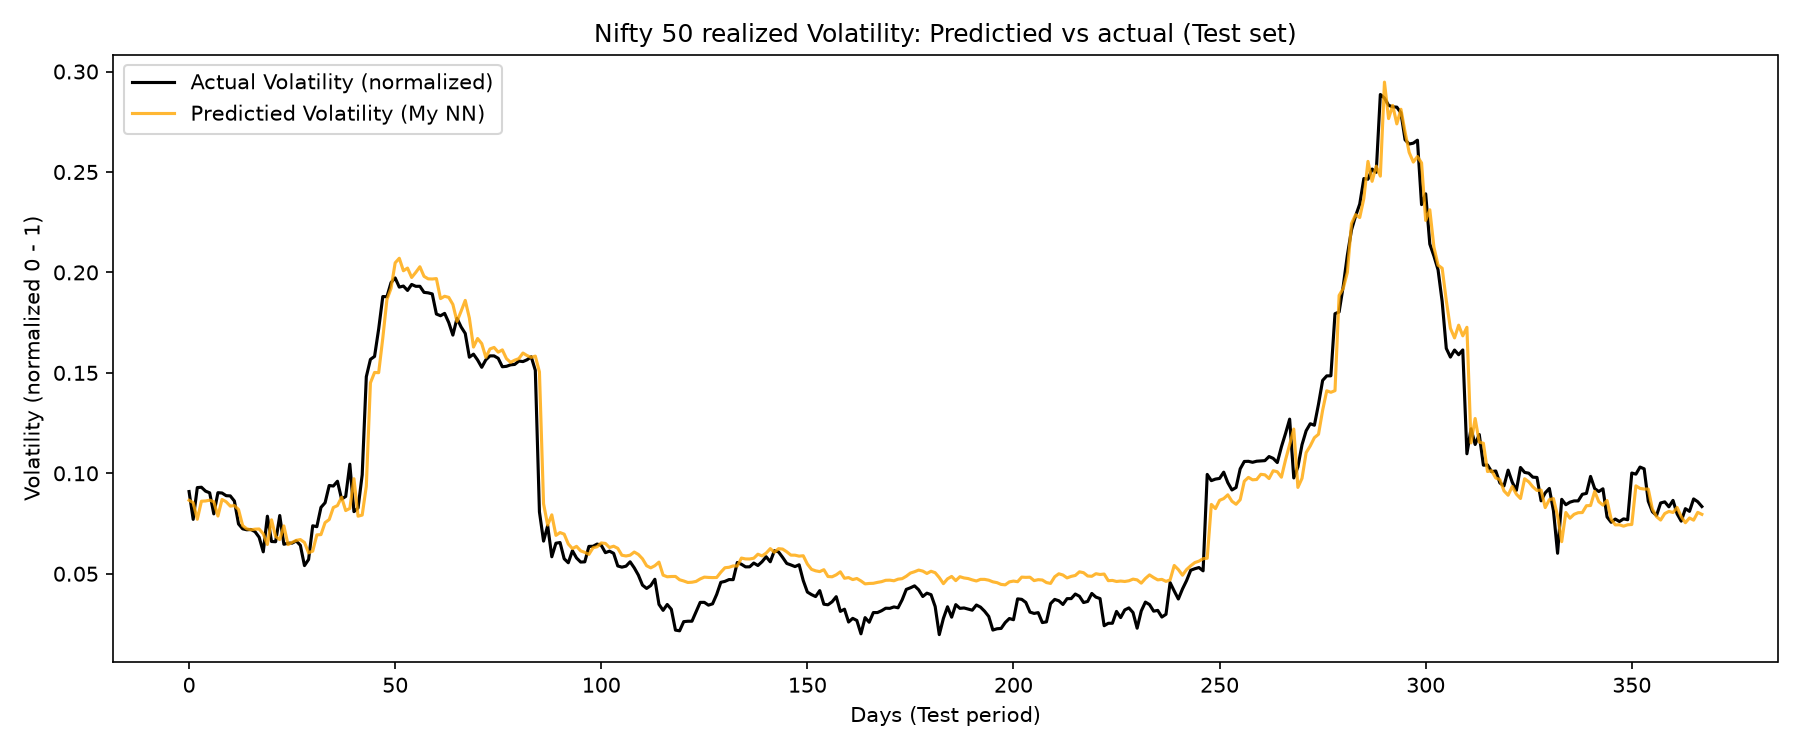
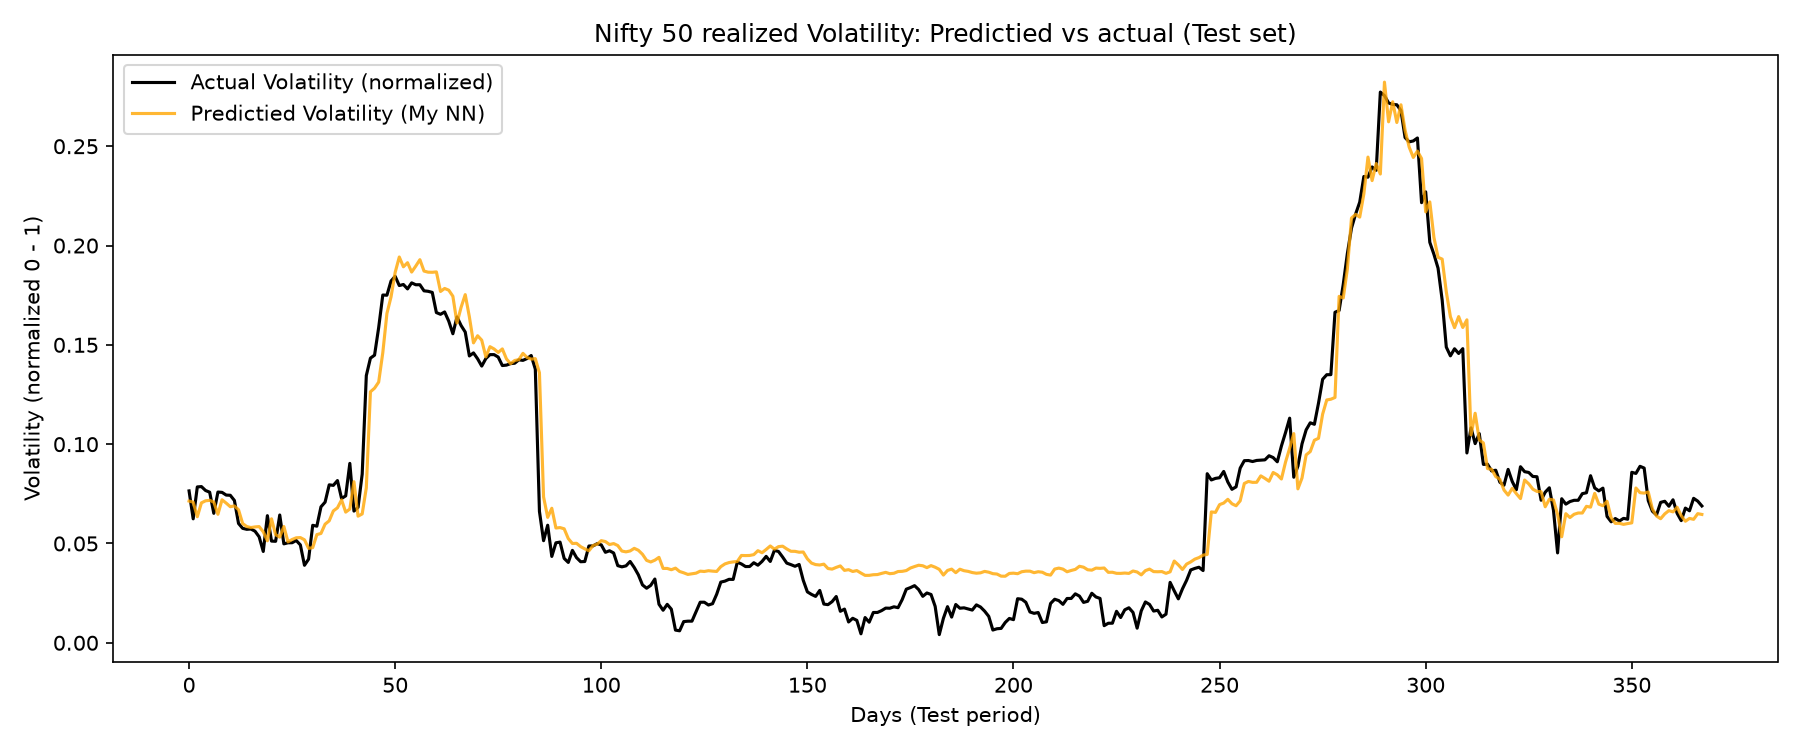
fix naive baseline scale, add val split for early stopping, fix typo

diff --git a/src/train_volatility.py b/src/train_volatility.py
@@ -1,9 +1,10 @@
 import numpy as np
 import pandas as pd
 from network import NeuralNetwork
-from activations import relu, sigmoid, leaky_relu
-from losses import mse, mse_derivative 
-from sklearn.neural_network import MLPRegressor
+from activations import sigmoid, leaky_relu
+from losses import mse
+import matplotlib
+matplotlib.use('Agg')
 import matplotlib.pyplot as plt
 
 
@@ -19,34 +20,33 @@ target = 'Volatility'
 X = data[features].values  # shape(n_samples, 4)
 y = data[target].values    # shape(n_samples, )
 
-# --- Chronological train/test split (80/20, NO shuffling) ---
+# --- Chronological train/val/test split (70/10/20, NO shuffling) ---
 
-split_idx = int(len(X) * 0.8)   # split index for 80% train and 20% test
+n = len(X)
+train_end = int(n * 0.7)
+val_end = int(n * 0.8)
 
-X_train, X_test = X[:split_idx], X[split_idx:]
-y_train, y_test = y[:split_idx], y[split_idx:]
+X_train, X_val, X_test = X[:train_end], X[train_end:val_end], X[val_end:]
+y_train, y_val, y_test = y[:train_end], y[train_end:val_end], y[val_end:]
 
-print(f"Train Samples: {len(X_train)}, Test Samples: {len(X_test)}")
+print(f"Train: {len(X_train)}, Val: {len(X_val)}, Test: {len(X_test)}")
 
 # --- Normalize using TRAIN stats only (never leak test stats into training) ---
 
 X_mean, X_std =  X_train.mean(axis=0), X_train.std(axis=0)
 
 X_train_norm = (X_train - X_mean) / X_std
+X_val_norm = (X_val - X_mean) / X_std
 X_test_norm = (X_test - X_mean) / X_std
 
 y_min, y_max = y_train.min(), y_train.max()
 y_train_norm = (y_train - y_min) / (y_max - y_min)
+y_val_norm = (y_val - y_min) / (y_max - y_min)
 y_test_norm = (y_test - y_min) / (y_max - y_min)
 
 
 print(f"X_train_norm mean/std:{X_train_norm.mean():.4f}, {X_train_norm.std():.4f} ")
 print(f"y_train_norm mean/std:{y_train_norm.mean():.4f}, {y_train_norm.std():.4f} ")
-
-
-print(data.head())
-print(data.dtypes)
-print(f"\nNaN count per column:\n{data.isna().sum()}")
 
 
 
@@ -60,15 +60,14 @@ net = NeuralNetwork(layer_sizes = [4, 8, 1], activations =[leaky_relu, sigmoid])
 
 epochs = 200    # the number of times the entire training dataset is passed through the network
 learning_rate = 0.01
-batch_size = 32
 l2_lambda = 0.0      # L2 regularization strength — small penalty on large weights
 
 n_samples = len(X_train_norm)
 
 
-# --- Train with early stopping (keep best weights) ---
+# --- Train with early stopping on VALIDATION loss (keep best weights) ---
 
-best_loss = float('inf')
+best_val_loss = float('inf')
 best_weights = None
 patience = 30
 epochs_without_improvement = 0
@@ -89,17 +88,24 @@ for epoch in range(epochs):
 
     avg_loss = total_loss / n_samples
 
-    if avg_loss < best_loss :
-        best_loss = avg_loss
+    # compute validation loss for early stopping
+    val_loss = 0.0
+    for i in range(len(X_val_norm)):
+        y_pred = net.forward(X_val_norm[i])
+        val_loss += mse(y_pred, np.array([y_val_norm[i]]))
+    val_loss /= len(X_val_norm)
+
+    if val_loss < best_val_loss:
+        best_val_loss = val_loss
         best_weights = [(layer.W.copy(), layer.b.copy()) for layer in net.layers]
-        epochs_witout_improvement = 0
+        epochs_without_improvement = 0
     else:
-        epochs_witout_improvement += 1
+        epochs_without_improvement += 1
 
     if epoch % 20 == 0:
-        print(f"Epoch : {epoch}, Train Loss: {avg_loss:.6f} (best: {best_loss:.6f})")
+        print(f"Epoch : {epoch}, Train Loss: {avg_loss:.6f}, Val Loss: {val_loss:.6f} (best: {best_val_loss:.6f})")
 
-    if epochs_witout_improvement >= patience:
+    if epochs_without_improvement >= patience:
         print(f"\n early stopping at epoch {epoch} - no improvement for {patience} epochs")
         break
 
@@ -110,7 +116,7 @@ for layer, (W,b) in zip(net.layers, best_weights):
     layer.b = b
 
 
-#               --- Evaluate on test set ---
+#               --- Evaluate on test set (once, at the end) ---
 test_loss = 0.0
 predictions = []
 
@@ -125,33 +131,20 @@ for i in range(len(X_test_norm)):
 test_loss /= len(X_test_norm)
 print(f"\nFinal Test Loss (normalized scale): {test_loss:.6f}")
 
-# --- Baseline comparison: naive "tomorrow = today" predictor ---
-naive_prediction = X_test_norm[:, 2]                   # Volatility_lag1 IS our naive guess for today's volatility
+# --- Baseline comparison: naive persistence predictor ---
+# predict today's volatility = yesterday's volatility, in the SAME MinMax scale as y
+naive_prediction = (X_test[:, 2] - y_min) / (y_max - y_min)
 naive_loss = np.mean((naive_prediction - y_test_norm)**2)
-print(f"Naive Baseline Loss (predict using yesterday's volatility): {naive_loss:.6f}")
+print(f"Naive Baseline Loss (persistence, same scale): {naive_loss:.6f}")
 
 
-
-# --- Sanity check against sklearn's MLPRegressor ---
-
-
-sklearn_model = MLPRegressor(
-    hidden_layer_sizes = (8,),
-    activation = 'relu',
-    max_iter = 1000,
-    random_state = 42  
-)
-
-sklearn_model.fit(X_train_norm, y_train_norm)
-sklearn_preds = sklearn_model.predict(X_test_norm)
-sklearn_test_loss = np.mean((sklearn_preds - y_test_norm) ** 2)
-
-
-
-print(f"\n---- Comparision ----")
-print(f"Your from - scratch NN Test Loss :   {test_loss:.6f}")
-print(f"sklearn MLPRegressor Test Loss :     {sklearn_test_loss:.6f}")
-print(f"Naive Baseline Test Loss :           {naive_loss:.6f}")
+print(f"\n---- Comparison ----")
+print(f"From-scratch NN Test Loss :   {test_loss:.6f}")
+print(f"Naive Baseline Test Loss :    {naive_loss:.6f}")
+if naive_loss < test_loss:
+    print(f"Persistence baseline beats the network.")
+else:
+    print(f"Network beats the persistence baseline.")
 
 
         
